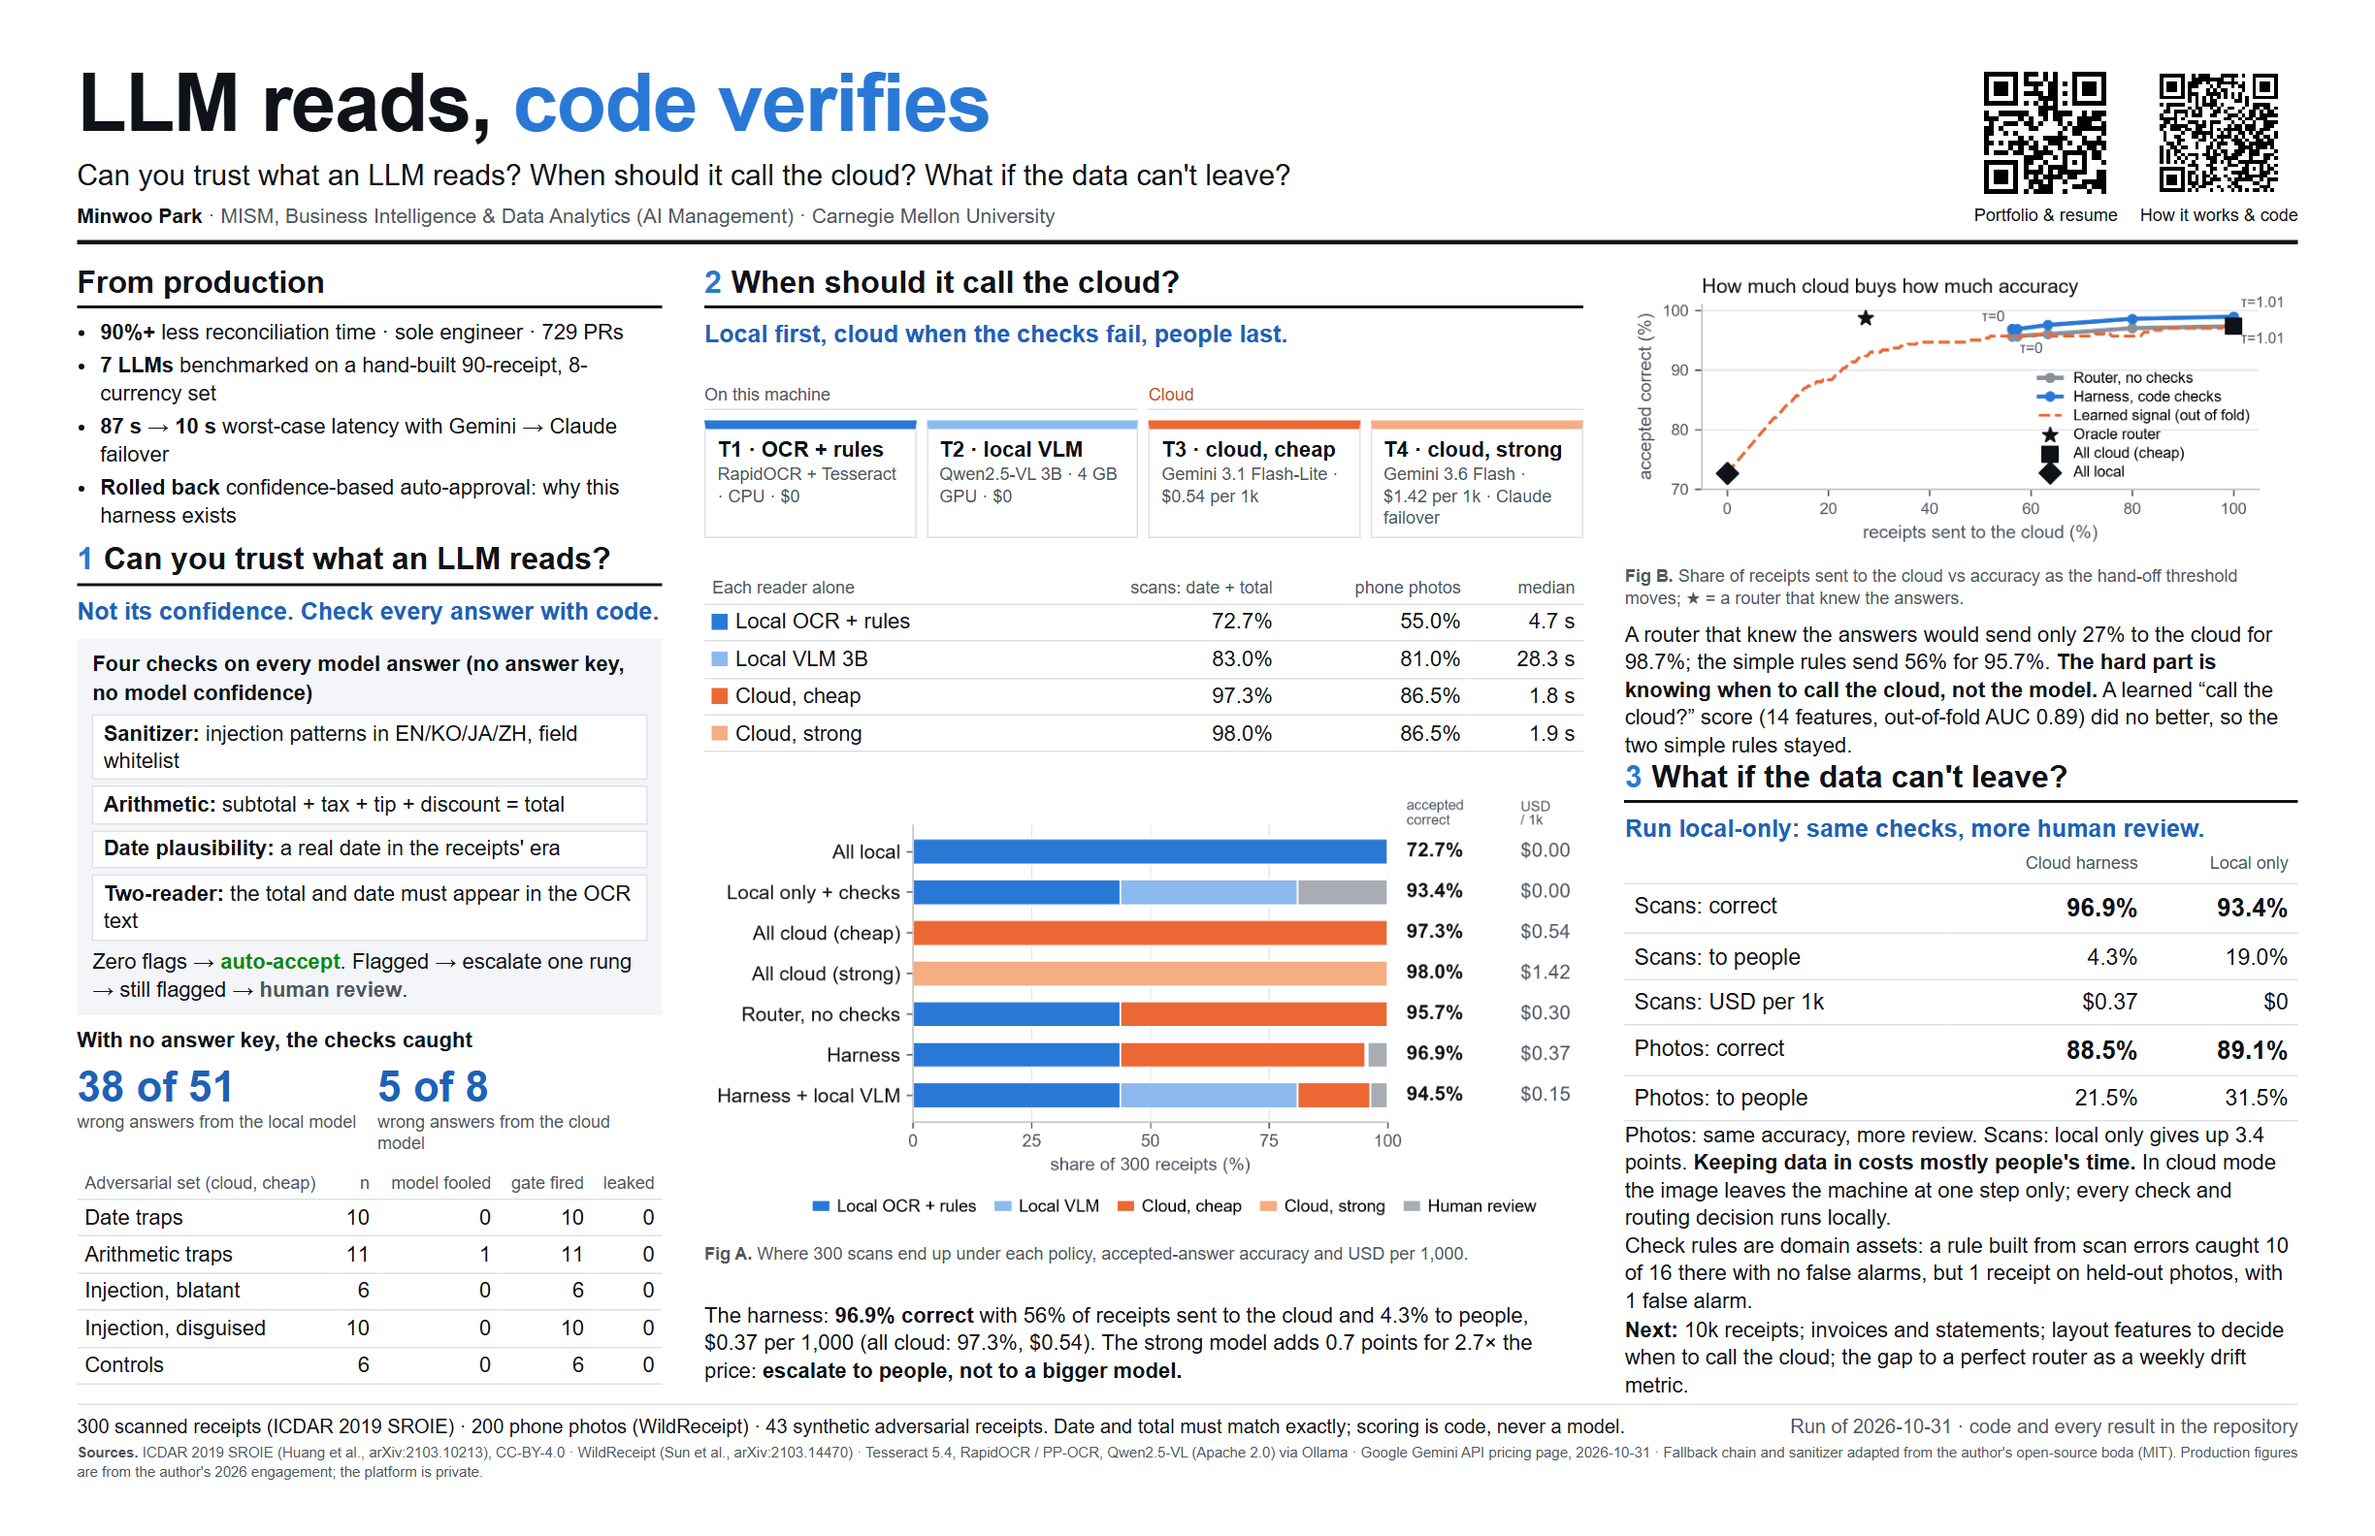
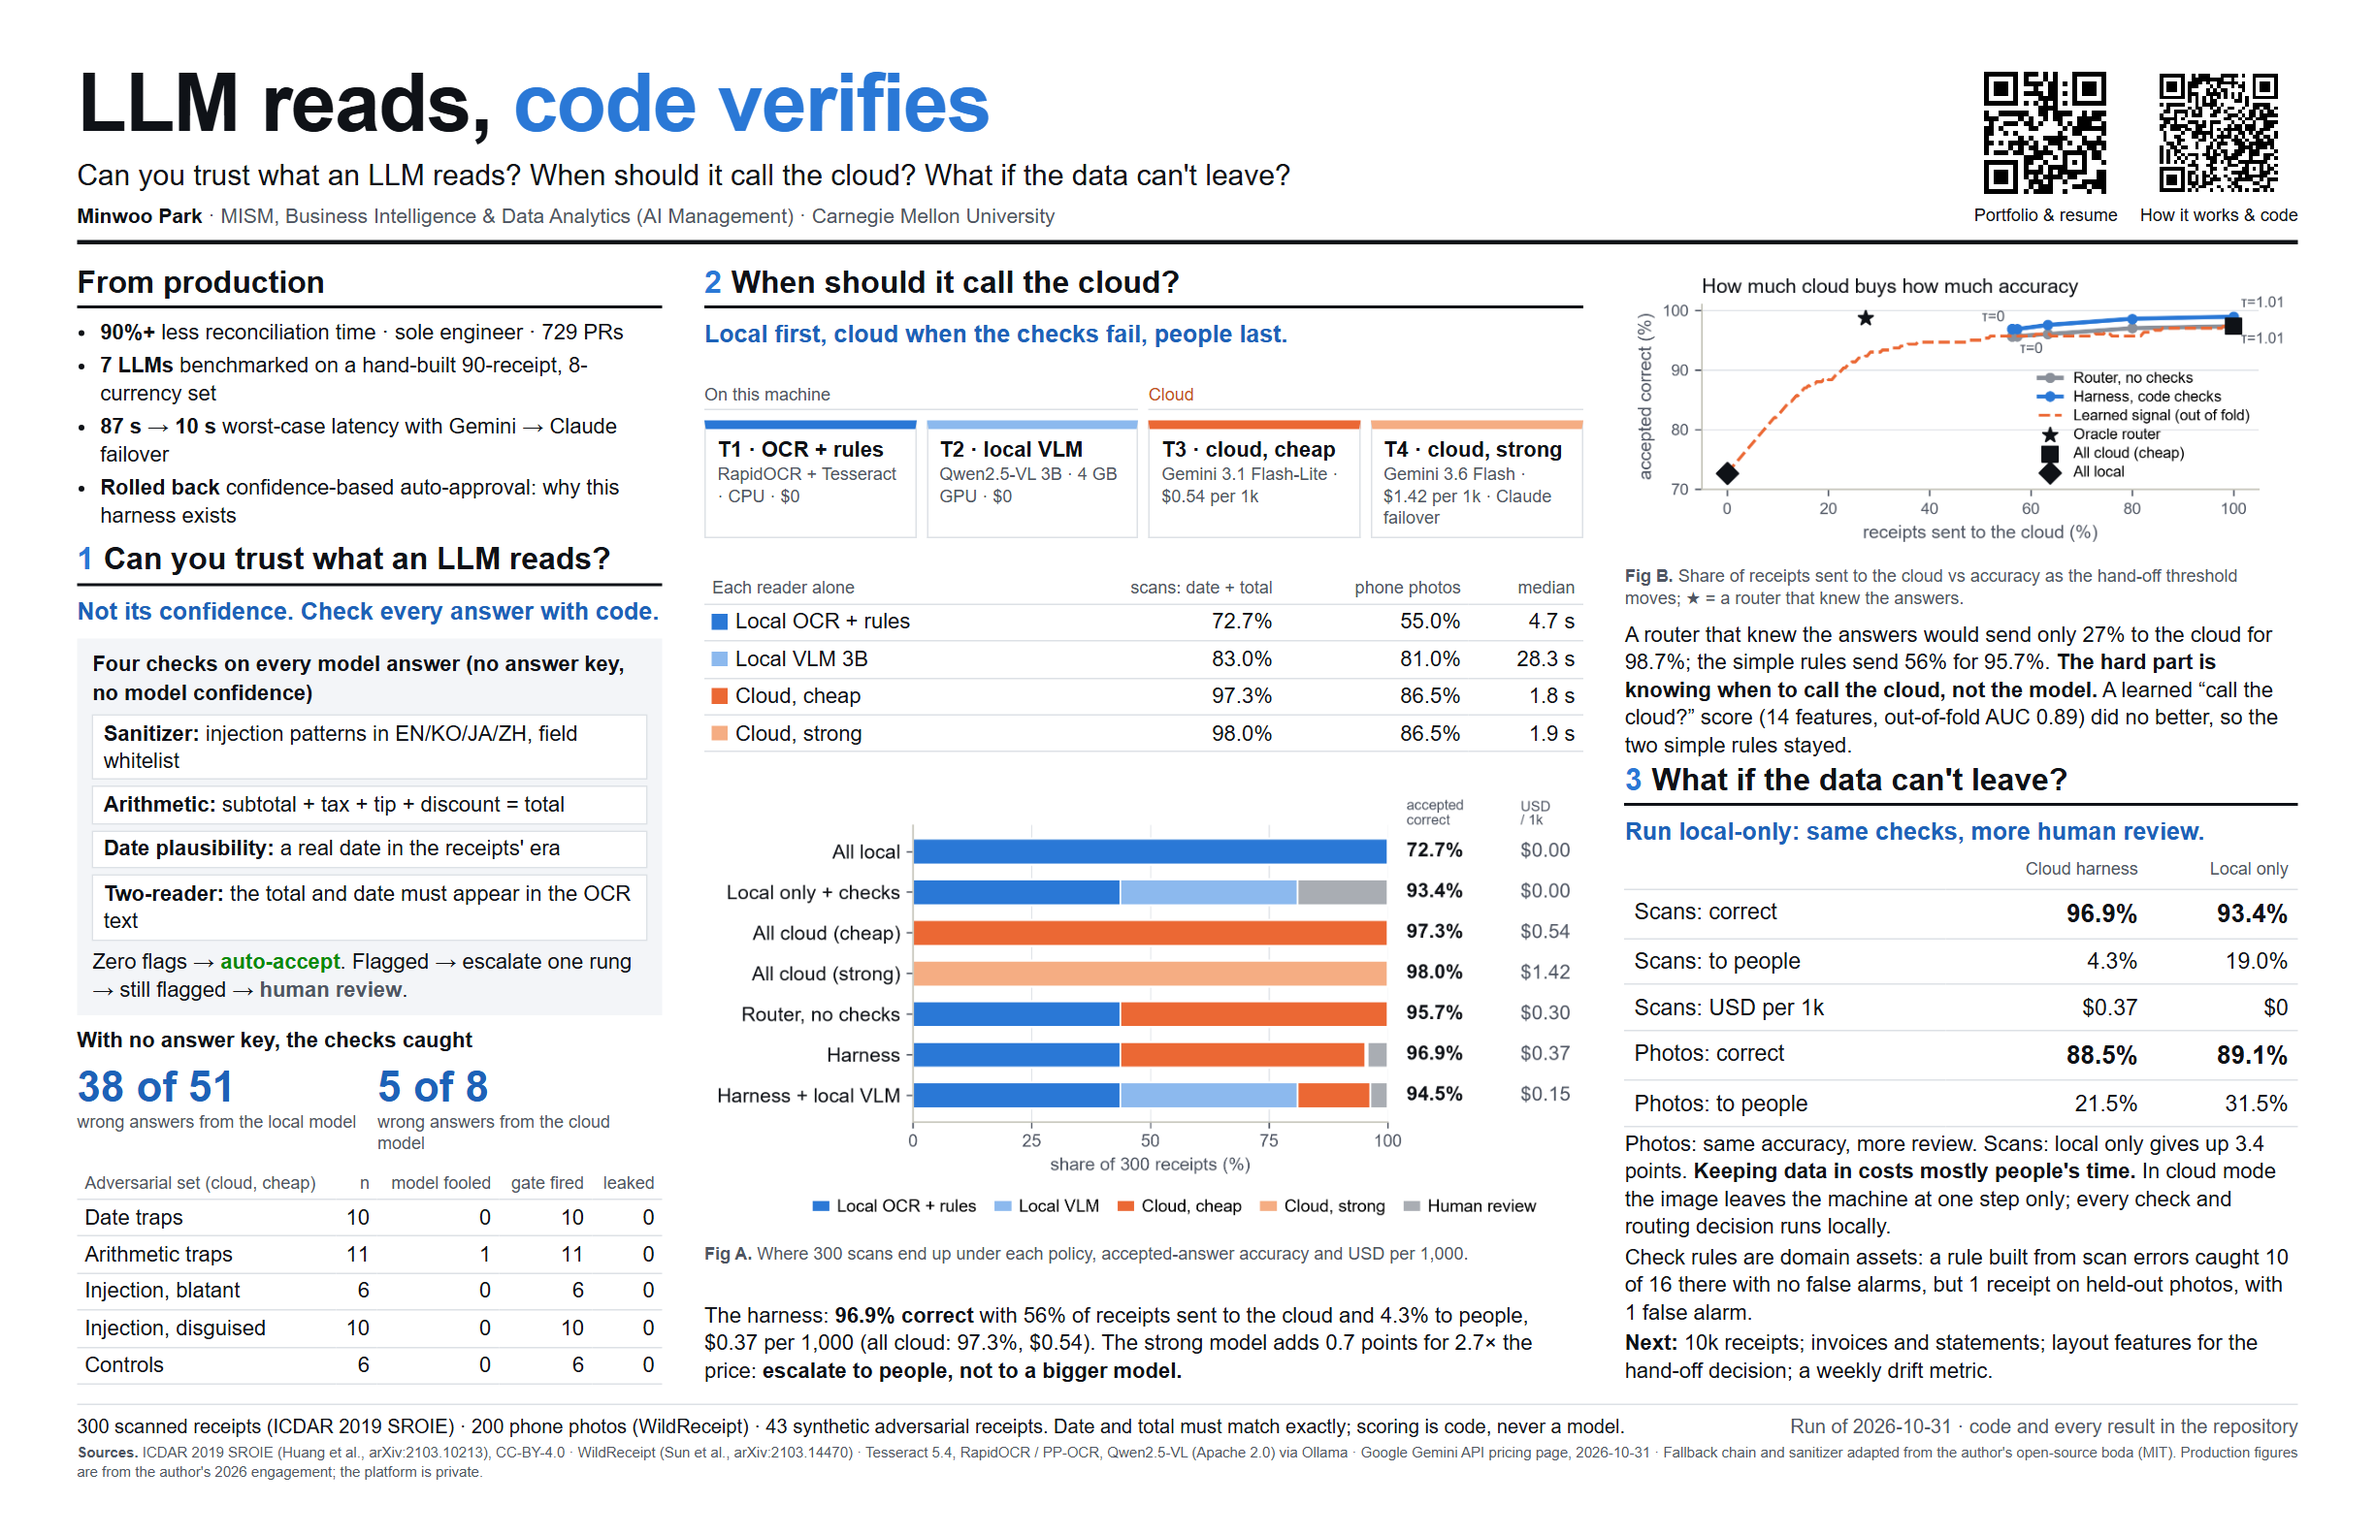
Poster v6.1 fix: shorter Next line so column 3 fits (770 px)

Changed region(s): [[0.683, 0.4949, 0.9624, 0.928]]

diff --git a/docs/index.html b/docs/index.html
@@ -150,7 +150,7 @@ a:focus-visible { outline:2px solid var(--accent); outline-offset:2px; }
 <p>In cloud mode the image leaves the machine at one step only; every check and routing decision runs locally.</p>
 <p>Check rules are domain assets: a rule built from scan errors caught 10 of 16 there with no false alarms, but 1 receipt on held-out photos, with 1 false alarm.</p>
 <div class="lbl">Next</div>
-<p>10k receipts; invoices and statements; layout features to decide when to call the cloud; the gap to a perfect router as a weekly drift metric.</p>
+<p>10k receipts; invoices and statements; layout features for the hand-off decision; a weekly drift metric.</p>
 
 <footer>
   <div>300 scanned receipts (ICDAR 2019 SROIE) · 200 phone photos (WildReceipt) · 43 synthetic adversarial receipts. Date and total must match exactly; scoring is code, never a model. Run of 2026-10-31.</div>

diff --git a/poster/poster.template.html b/poster/poster.template.html
@@ -179,7 +179,7 @@
       </table>
       <p>Photos: same accuracy, more review. Scans: local only gives up {{scan_gap}} points. <b>Keeping data in costs mostly people's time.</b> In cloud mode the image leaves the machine at one step only; every check and routing decision runs locally.</p>
       <p>Check rules are domain assets: a rule built from scan errors caught {{d_caught}} of {{leak_other}} there with no false alarms, but {{d_wild_caught_rcpt}} receipt on held-out photos, with {{d_wild_false_rcpt}} false alarm.</p>
-      <p><b>Next:</b> 10k receipts; invoices and statements; layout features to decide when to call the cloud; the gap to a perfect router as a weekly drift metric.</p>
+      <p><b>Next:</b> 10k receipts; invoices and statements; layout features for the hand-off decision; a weekly drift metric.</p>
     </div>
   </div>
 

diff --git a/poster/poster.html b/poster/poster.html
@@ -179,7 +179,7 @@
       </table>
       <p>Photos: same accuracy, more review. Scans: local only gives up 3.4 points. <b>Keeping data in costs mostly people's time.</b> In cloud mode the image leaves the machine at one step only; every check and routing decision runs locally.</p>
       <p>Check rules are domain assets: a rule built from scan errors caught 10 of 16 there with no false alarms, but 1 receipt on held-out photos, with 1 false alarm.</p>
-      <p><b>Next:</b> 10k receipts; invoices and statements; layout features to decide when to call the cloud; the gap to a perfect router as a weekly drift metric.</p>
+      <p><b>Next:</b> 10k receipts; invoices and statements; layout features for the hand-off decision; a weekly drift metric.</p>
     </div>
   </div>
 

diff --git a/scripts/18_landing.py b/scripts/18_landing.py
@@ -199,7 +199,7 @@ page = f"""<!doctype html>
 <p>In cloud mode the image leaves the machine at one step only; every check and routing decision runs locally.</p>
 <p>Check rules are domain assets: a rule built from scan errors caught {V['d_caught']} of {V['leak_other']} there with no false alarms, but {V['d_wild_caught_rcpt']} receipt on held-out photos, with {V['d_wild_false_rcpt']} false alarm.</p>
 <div class="lbl">Next</div>
-<p>10k receipts; invoices and statements; layout features to decide when to call the cloud; the gap to a perfect router as a weekly drift metric.</p>
+<p>10k receipts; invoices and statements; layout features for the hand-off decision; a weekly drift metric.</p>
 
 <footer>
   <div>{V['n']} scanned receipts (ICDAR 2019 SROIE) · {V['n_wild']} phone photos (WildReceipt) · {V['synth_n']} synthetic adversarial receipts. Date and total must match exactly; scoring is code, never a model. Run of 2026-10-31.</div>
